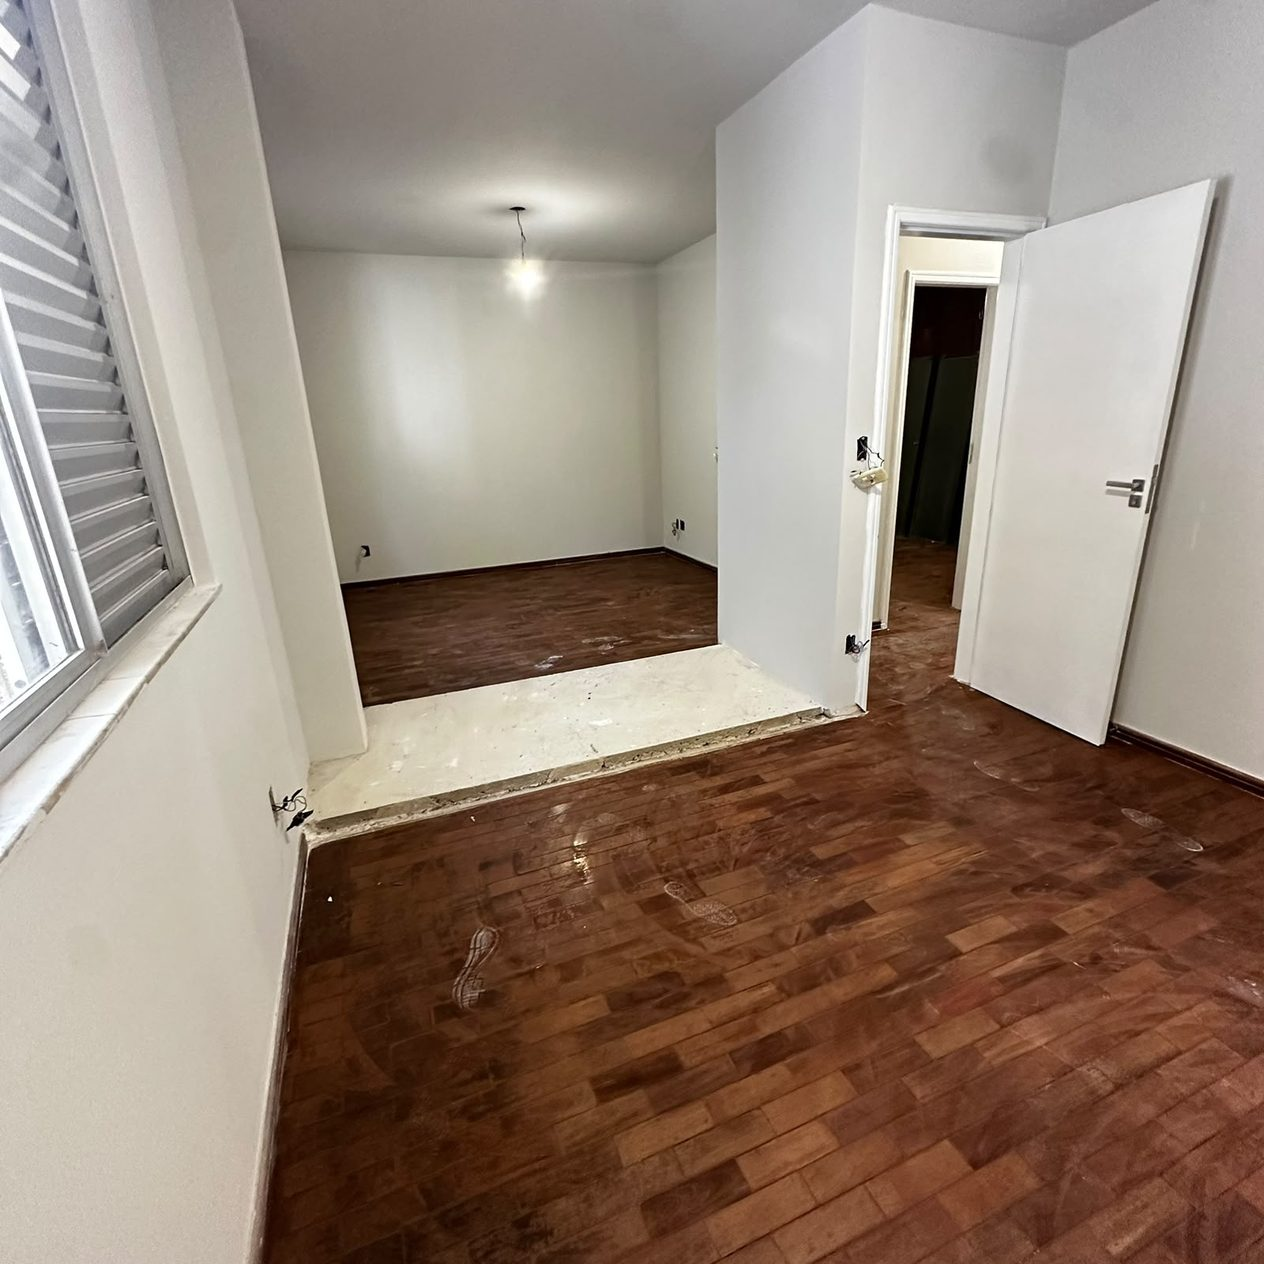
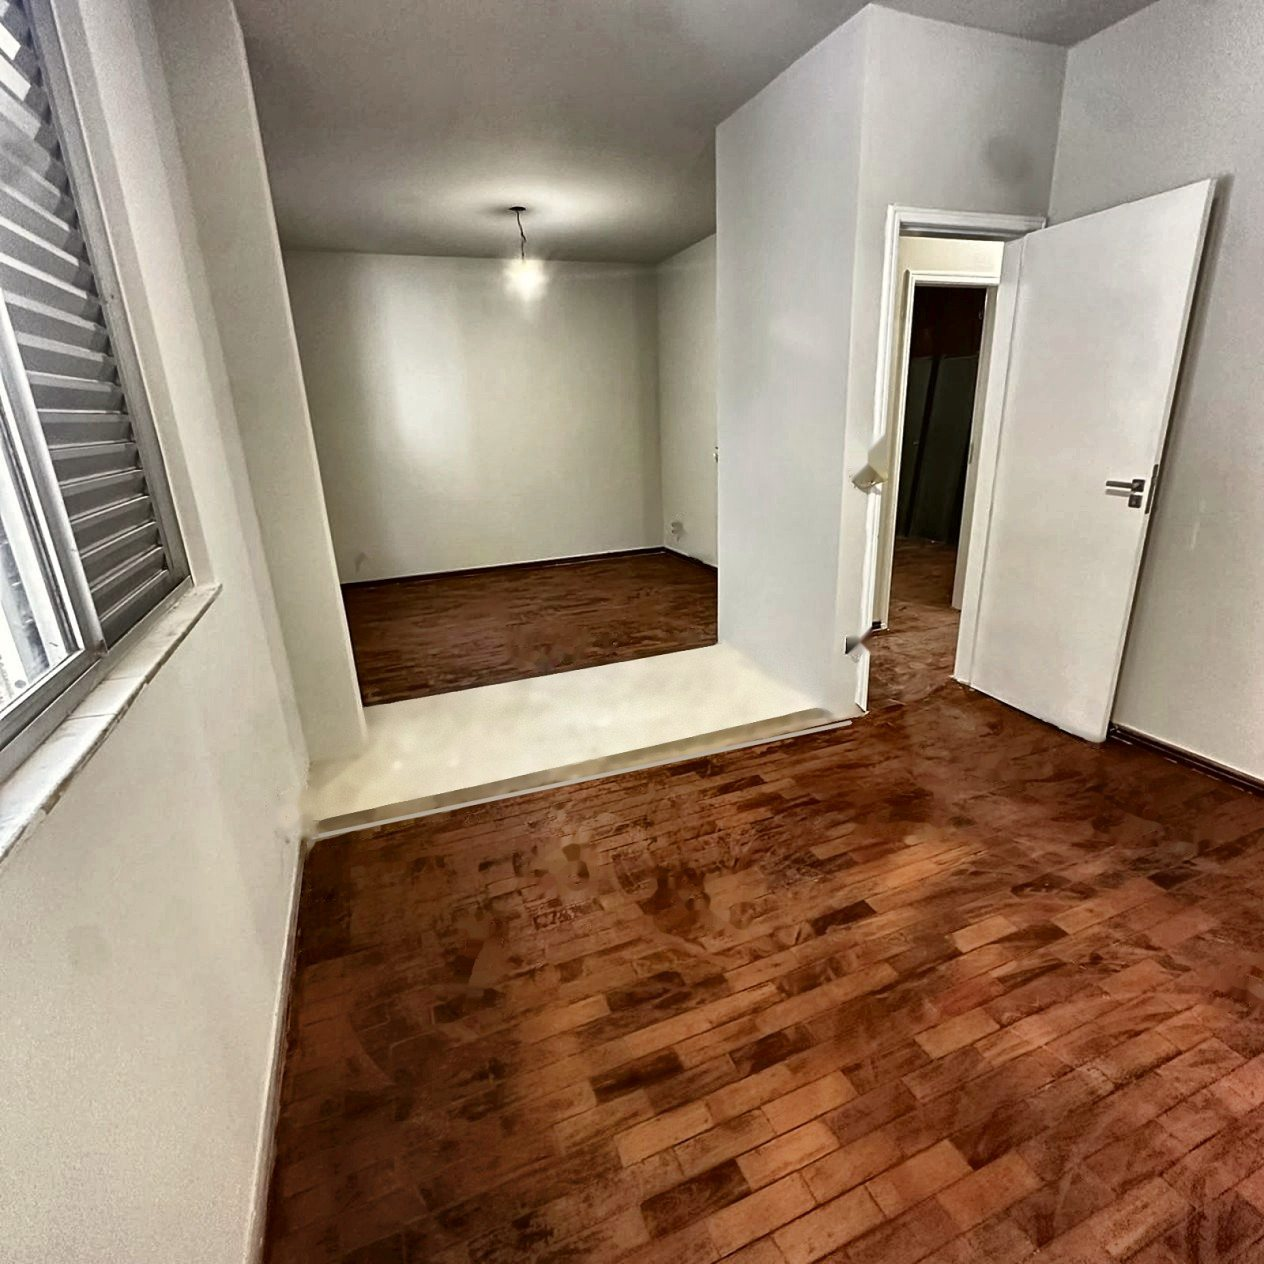
Foto real dos dois quartos limpa: sem pegadas, fios e faixa quebrada
- Pegadas e manchas tiradas dos tacos, piso com cor uniforme
- Faixa de cimento lisa, com borda reta
- Fios soltos removidos da parede; luz e contraste ajustados
- Marcada como "foto real da compra com limpeza digital"

Claude-Session: https://claude.ai/code/session_019DD4FyhMJskAwBvZ6C9jSq

diff --git a/index.html b/index.html
@@ -324,7 +324,7 @@ section.sec{padding:80px 0 0}
       <div class="btns" id="cBtns"><button class="pill" data-share><svg class="i"><use href="#i-share"/></svg>Enviar para alguém</button></div></div>
     <div><div class="sheet num"><div><span>Área privativa</span><b>120 m²</b></div><div><span>Quartos</span><b>3, sendo 1 suíte</b></div><div><span>Banheiros</span><b>3</b></div><div><span>Vagas</span><b>2 cobertas</b></div><div><span>Andar</span><b>1º</b></div><div><span>Valor</span><b>Sob consulta</b></div></div><div id="contactRows"></div></div>
   </div>
-  <p class="fine in" id="fine">As fotos da esquerda no antes e depois são reais; a mobília da direita foi gerada por inteligência artificial e é ilustrativa. Na foto tirada na compra, a reforma da direita também é ilustrativa; na foto do quarto com armário, o entulho e as marcas do piso foram removidos digitalmente. Fotos do book com decoração ilustrativa. Planta e maquete 3D ilustrativas. Informações sujeitas a confirmação documental e alteração sem aviso prévio.</p>
+  <p class="fine in" id="fine">As fotos da esquerda no antes e depois são reais; a mobília da direita foi gerada por inteligência artificial e é ilustrativa. Na foto dos dois quartos, tirada na compra, a reforma da direita também é ilustrativa. Nas fotos dos dois quartos e do quarto com armário, o entulho, os fios e as marcas do piso foram removidos digitalmente. Fotos do book com decoração ilustrativa. Planta e maquete 3D ilustrativas. Informações sujeitas a confirmação documental e alteração sem aviso prévio.</p>
   </div></section>
 </main>
 
@@ -368,7 +368,7 @@ addEventListener('resize',heroUpdate); heroUpdate();
 // ---------- antes e depois: um visor, dez ambientes ----------
 const BA=[ // [arquivo, nome, quando a foto real foi tirada]
   ['sala','Sala de estar','obra'],['estar','Estar e jantar','obra'],['janelas','Sala, junto às janelas','obra'],['corredor','Sala, vista para os quartos','obra'],
-  ['saleta','Dois quartos','compra'],['suite','Quarto de casal','obra'],['quarto','Quarto com escrivaninha','obra'],['quarto3','Quarto 3','obra'],
+  ['saleta','Dois quartos','compralimpa'],['suite','Quarto de casal','obra'],['quarto','Quarto com escrivaninha','obra'],['quarto3','Quarto 3','obra'],
   ['armario','Quarto com armário','limpa'],['banheiro','Banheiro','obra']];
 const cmp=$('cmp'); let p=50, drag=null, cur=-1;
 const set=(v,anim)=>{ p=Math.max(0,Math.min(100,v)); cmp.classList.toggle('anim',!!anim); cmp.style.setProperty('--p',p+'%'); cmp.setAttribute('aria-valuenow',Math.round(p)); };
@@ -377,11 +377,11 @@ $('thumbs').innerHTML=BA.map(([k,n],i)=>`<button role="tab" data-i="${i}" aria-l
 const tbs=[...$('thumbs').children];
 function show(i,anim){ i=(i+BA.length)%BA.length; if (i===cur) return; cur=i; const [k,n,w]=BA[i];
   const go=()=>{ $('baA').src='img/antes-'+k+'.jpg'; $('baD').src='img/depois-'+k+'.jpg';
-    $('baA').alt=n+', foto real '+(w==='compra'?'tirada na compra':w==='limpa'?'com entulho removido digitalmente':'sem móveis'); $('baD').alt=n+', '+(w==='compra'?'reforma e mobília ilustrativas':'mobília ilustrativa')+' feitas por IA';
+    $('baA').alt=n+', foto real '+(w==='compralimpa'?'da compra, com limpeza digital':w==='compra'?'tirada na compra':w==='limpa'?'com entulho removido digitalmente':'sem móveis'); $('baD').alt=n+', '+(w==='compra'||w==='compralimpa'?'reforma e mobília ilustrativas':'mobília ilustrativa')+' feitas por IA';
     cmp.setAttribute('aria-label',n+': comparar antes e depois'); cmp.classList.remove('swap'); if (anim!==false) sweep(); else set(50,false); };
   if (anim===false) go(); else { cmp.classList.add('swap'); setTimeout(go,180); }
   $('baName').textContent=n; $('baIdx').textContent=String(i+1).padStart(2,'0')+' / '+BA.length;
-  $('baNote').textContent= w==='compra' ? 'Foto real tirada na compra · reforma e móveis por IA' : w==='limpa' ? 'Foto real com limpeza digital · móveis por IA' : 'Foto real depois da obra · móveis por IA';
+  $('baNote').textContent= w==='compralimpa' ? 'Foto real da compra com limpeza digital · reforma e móveis por IA' : w==='compra' ? 'Foto real tirada na compra · reforma e móveis por IA' : w==='limpa' ? 'Foto real com limpeza digital · móveis por IA' : 'Foto real depois da obra · móveis por IA';
   tbs.forEach((b,j)=>{ b.classList.toggle('on',j===i); b.setAttribute('aria-selected',j===i); });
   tbs[i].scrollIntoView({block:'nearest',inline:'center',behavior:reduce?'auto':'smooth'});
   const nx=BA[(i+1)%BA.length][0]; new Image().src='img/antes-'+nx+'.jpg'; new Image().src='img/depois-'+nx+'.jpg'; }
